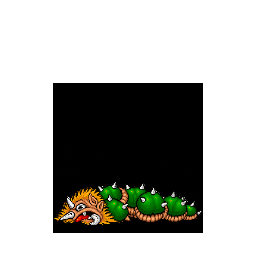
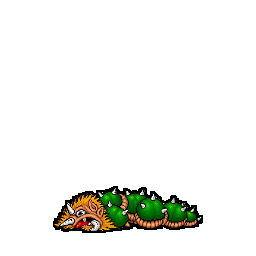
보스 리소스 완료 · 나머지 5종에 거리/묶음/예고 뼈대
리소스 — 여섯 종 전부 벌 8/8 · 경고등 5/5
- unit_guardian_ne_die2 마지막 1장 반영. 검은 판 제거 확인(18,688 -> 1,297px
  외곽선 수준). 면적비 0.32 · 머리 +25 같은 쪽 · 몸중심 y +29 가라앉음.
- 다만 발밑이 y=226 으로 6px 떠 있었다. 그림이 아니라 위치라 새로 그리게 하지
  않고 6px 내려 y=232 에 맞췄다.

뼈대 — Move 20개에 Range/Group 부여, 예고 1초 통일
  규칙을 취향이 아니라 도형 원점에서 뽑았다
    NEAR  원점이 보스이고 반경 <= 4m — 붙어야 닿는다
    FAR   보스에서 나를 향해 뻗는 선/띠 — 거리가 있어야 읽힌다
    Any   내 자리에 떨어지거나 방 전체를 덮는다 (VenomCloud · ExecutionLock ·
          BoosterDrop 은 코드가 Origin 을 playerAt 으로 잡는다)
    Group 같은 성격 둘이 겹치지 않게 한 시계로 번갈아

  가디언       마디돌진 FAR/1 · 마디사출 Any · 똬리 NEAR · 머리물기 FAR/1
  파이썬       전부 Any (벽으로 순간이동해 거리 조건이 의미 없다)
              벽돌파 <-> 세갈래돌파 묶음 1
  킹핀        미사일 FAR/1 · 처형조준 Any · 저공활강 FAR/1 · 부스터강하 Any
  로봇스네이크   구멍개방 Any/1 · 레이저 FAR · 천장파편 Any · 일제출현 Any/1
  슬러지       솟아오름 NEAR · 뱉기 FAR · 천장붙기 Any/1 · 천장확산 Any/1

  예고는 20개 다 1초. 예외 하나 — 킹핀 처형 조준 1.8초는 그대로 뒀다.
  그 길이 자체가 "몸을 갈아탈 시간을 준다" 는 뜻이라고 코드에 적혀 있다.

두뇌 실측 (30초 · 60fps · 페이즈 1)
  가디언 2m 마디사출만 / 8m 마디돌진<->마디사출
  킹핀   2m 처형조준만 / 8m 미사일<->처형조준
  로봇   2m 구멍개방만 / 8m 구멍개방+레이저
  슬러지 2m 솟아오름만 / 8m 뱉기만
  (P2·P3 패턴은 체력이 안 깎이는 시뮬이라 안 나온다)

diff --git a/Assets/Scripts/Editor/BossDefTable.cs b/Assets/Scripts/Editor/BossDefTable.cs
@@ -137,28 +137,32 @@ namespace Game.EditorTools
                                 Shape = "Line", Draw = "SegmentThrust", Dodge = "PERP",
                                 Degrees = 0f, Radius = 0f, Width = 1.4f, Length = 7.2f,
                                 InnerRadius = 0f, GapDegrees = 0f, Lanes = 0,
-                                SafeX = 0f, SafeY = 0f },
+                                SafeX = 0f, SafeY = 0f,
+                                Range = "FAR", RangeMeters = 4f, Group = 1 },
                         // 출처 — 마디 2개를 떼어 굴린다 · 각 1.4 m · 3초간 방 안을 튕겨 다닌다
                         new() { Phase = 1, NameKr = "마디 사출", NameEn = "SegmentLaunch",
-                                Cooldown = 12f, Telegraph = 1.4f, DamageMul = 0.73f,
+                                Cooldown = 12f, Telegraph = 1f, DamageMul = 0.73f,
                                 Shape = "Zone", Draw = "SegmentLaunch", Dodge = "SIDE",
                                 Degrees = 0f, Radius = 1.4f, Width = 0f, Length = 0f,
                                 InnerRadius = 0f, GapDegrees = 0f, Lanes = 2,
-                                SafeX = 0f, SafeY = 0f },
+                                SafeX = 0f, SafeY = 0f,
+                                Range = "", RangeMeters = 4f, Group = 0 },
                         // 출처 — 몸을 말아 반경 3.5 m 원형 벽을 만든다 · 3초 · 마디 사이 틈으로 들어가면 머리를 때린다
                         new() { Phase = 2, NameKr = "똬리", NameEn = "CoilWall",
-                                Cooldown = 10f, Telegraph = 1.3f, DamageMul = 0.91f,
+                                Cooldown = 10f, Telegraph = 1f, DamageMul = 0.91f,
                                 Shape = "Zone", Draw = "CoilWall", Dodge = "GAP",
                                 Degrees = 0f, Radius = 3.5f, Width = 0f, Length = 0f,
                                 InnerRadius = 2.6f, GapDegrees = 60f, Lanes = 0,
-                                SafeX = 0f, SafeY = 0f },
+                                SafeX = 0f, SafeY = 0f,
+                                Range = "NEAR", RangeMeters = 4f, Group = 0 },
                         // 출처 — 머리만 몸에서 길게 뻗어 문다 · 최대 6 m · 마디가 적을수록 빠르다
                         new() { Phase = 3, NameKr = "머리 물기", NameEn = "HeadBite",
-                                Cooldown = 9f, Telegraph = 0.9f, DamageMul = 1.14f,
+                                Cooldown = 9f, Telegraph = 1f, DamageMul = 1.14f,
                                 Shape = "Dash", Draw = "HeadBite", Dodge = "SIDE",
                                 Degrees = 0f, Radius = 0f, Width = 1.6f, Length = 6f,
                                 InnerRadius = 0f, GapDegrees = 0f, Lanes = 0,
-                                SafeX = 0f, SafeY = 0f },
+                                SafeX = 0f, SafeY = 0f,
+                                Range = "FAR", RangeMeters = 4f, Group = 1 },
                     } },
 
             // ── 파이썬 · 밤거리 — 벽에서 나온다 ─────────────────────────────
@@ -169,32 +173,36 @@ namespace Game.EditorTools
                     {
                         // 출처 — 벽 한 곳에 금이 간 뒤 머리가 튀어나와 직선 6 m 를 훑는다 · 폭 1.8 m
                         new() { Phase = 1, NameKr = "벽 돌파", NameEn = "WallBurst",
-                                Cooldown = 12f, Telegraph = 1.6f, DamageMul = 0.83f,
+                                Cooldown = 12f, Telegraph = 1f, DamageMul = 0.83f,
                                 Shape = "Line", Draw = "WallBurst", Dodge = "PERP",
                                 Degrees = 0f, Radius = 0f, Width = 1.8f, Length = 6f,
                                 InnerRadius = 0f, GapDegrees = 0f, Lanes = 0,
-                                SafeX = 0f, SafeY = 0f },
+                                SafeX = 0f, SafeY = 0f,
+                                Range = "", RangeMeters = 4f, Group = 1 },
                         // 출처 — 머리가 독을 뿜는다 · 반경 2.2 m 로 시작해 6초 동안 3.2 m 까지 퍼진다
                         new() { Phase = 1, NameKr = "독구름", NameEn = "VenomCloud",
-                                Cooldown = 9f, Telegraph = 1.1f, DamageMul = 0.59f,
+                                Cooldown = 9f, Telegraph = 1f, DamageMul = 0.59f,
                                 Shape = "Zone", Draw = "VenomCloud", Dodge = "ZONE",
                                 Degrees = 0f, Radius = 3.2f, Width = 0f, Length = 0f,
                                 InnerRadius = 0f, GapDegrees = 0f, Lanes = 0,
-                                SafeX = 0f, SafeY = 0f },
+                                SafeX = 0f, SafeY = 0f,
+                                Range = "", RangeMeters = 4f, Group = 0 },
                         // 출처 — 벽에서 벽으로 몸통이 방을 가로지른다 · 폭 2.4 m · 가로 또는 세로 한 줄 · 2.5초
                         new() { Phase = 2, NameKr = "몸통 가로지르기", NameEn = "BodyCross",
-                                Cooldown = 10f, Telegraph = 1.25f, DamageMul = 0.93f,
+                                Cooldown = 10f, Telegraph = 1f, DamageMul = 0.93f,
                                 Shape = "Lane", Draw = "BodyCross", Dodge = "SIDE",
                                 Degrees = 0f, Radius = 0f, Width = 2.4f, Length = 0f,
                                 InnerRadius = 0f, GapDegrees = 0f, Lanes = 4,
-                                SafeX = 0f, SafeY = 0f },
+                                SafeX = 0f, SafeY = 0f,
+                                Range = "", RangeMeters = 4f, Group = 0 },
                         // 출처 — 벽 세 곳에서 동시에 나온다 · 세 직선이 교차하고 안 겹치는 자리가 하나뿐
                         new() { Phase = 3, NameKr = "세 갈래 돌파", NameEn = "TripleBurst",
                                 Cooldown = 16f, Telegraph = 1f, DamageMul = 1.17f,
                                 Shape = "Line", Draw = "TripleBurst", Dodge = "GAP",
                                 Degrees = 0f, Radius = 0f, Width = 1.8f, Length = 6f,
                                 InnerRadius = 0f, GapDegrees = 0f, Lanes = 3,
-                                SafeX = 0f, SafeY = 0f },
+                                SafeX = 0f, SafeY = 0f,
+                                Range = "", RangeMeters = 4f, Group = 1 },
                     } },
 
             // ── 킹핀 · 옥상 — 하늘에 떠 있다 ──────────────────────────────
@@ -205,32 +213,36 @@ namespace Game.EditorTools
                     {
                         // 출처 — 미사일 5발을 부채꼴로 뿌린다 · 착탄 반경 1.2 m · 바닥에 착탄 원이 먼저 뜬다
                         new() { Phase = 1, NameKr = "미사일 일제", NameEn = "MissileSalvo",
-                                Cooldown = 9f, Telegraph = 1.35f, DamageMul = 0.88f,
+                                Cooldown = 9f, Telegraph = 1f, DamageMul = 0.88f,
                                 Shape = "Zone", Draw = "MissileSalvo", Dodge = "SIDE",
                                 Degrees = 0f, Radius = 1.2f, Width = 0f, Length = 0f,
                                 InnerRadius = 0f, GapDegrees = 0f, Lanes = 5,
-                                SafeX = 0f, SafeY = 0f },
+                                SafeX = 0f, SafeY = 0f,
+                                Range = "FAR", RangeMeters = 4f, Group = 1 },
                         // 출처 — 지금 입고 있는 몸에 조준 표식 · 3초 뒤 그 자리 반경 2.0 m 에 집중 사격
                         new() { Phase = 1, NameKr = "처형 조준", NameEn = "ExecutionLock",
                                 Cooldown = 13f, Telegraph = 1.8f, DamageMul = 1.24f,
                                 Shape = "Mark", Draw = "ExecutionLock", Dodge = "SWAP",
                                 Degrees = 0f, Radius = 2f, Width = 0f, Length = 0f,
                                 InnerRadius = 0f, GapDegrees = 0f, Lanes = 0,
-                                SafeX = 0f, SafeY = 0f },
+                                SafeX = 0f, SafeY = 0f,
+                                Range = "", RangeMeters = 4f, Group = 0 },
                         // 출처 — 탈것으로 방을 가로질러 민다 · 폭 3.0 m · 이때만 근접이 닿는다
                         new() { Phase = 2, NameKr = "저공 활강", NameEn = "StrafingRun",
                                 Cooldown = 8f, Telegraph = 1f, DamageMul = 0.72f,
                                 Shape = "Dash", Draw = "StrafingRun", Dodge = "SIDE",
                                 Degrees = 0f, Radius = 0f, Width = 3f, Length = 10f,
                                 InnerRadius = 0f, GapDegrees = 0f, Lanes = 0,
-                                SafeX = 0f, SafeY = 0f },
+                                SafeX = 0f, SafeY = 0f,
+                                Range = "FAR", RangeMeters = 4f, Group = 1 },
                         // 출처 — 화면 밖으로 상승했다가 그림자 예고 후 내려찍는다 · 반경 3.0 m · 착지 충격파
                         new() { Phase = 3, NameKr = "부스터 강하", NameEn = "BoosterDrop",
-                                Cooldown = 15f, Telegraph = 1.2f, DamageMul = 1.12f,
+                                Cooldown = 15f, Telegraph = 1f, DamageMul = 1.12f,
                                 Shape = "Zone", Draw = "BoosterDrop", Dodge = "ZONE",
                                 Degrees = 0f, Radius = 3f, Width = 0f, Length = 0f,
                                 InnerRadius = 0f, GapDegrees = 0f, Lanes = 0,
-                                SafeX = 0f, SafeY = 0f },
+                                SafeX = 0f, SafeY = 0f,
+                                Range = "", RangeMeters = 4f, Group = 0 },
                     } },
 
             // ── 로봇 스네이크 · 연구소 — 구멍에서 나온다 ────────────────────────
@@ -241,32 +253,36 @@ namespace Game.EditorTools
                     {
                         // 출처 — 구멍 2개의 덮개가 열린다 — 이것이 예고다. 1.15초 뒤 그 구멍에서 머리가 솟는다 · 반경 1.5 m
                         new() { Phase = 1, NameKr = "구멍 개방", NameEn = "HatchOpen",
-                                Cooldown = 8f, Telegraph = 1.15f, DamageMul = 0.85f,
+                                Cooldown = 8f, Telegraph = 1f, DamageMul = 0.85f,
                                 Shape = "Lane", Draw = "HatchOpen", Dodge = "ZONE",
                                 Degrees = 0f, Radius = 1.5f, Width = 0f, Length = 0f,
                                 InnerRadius = 0f, GapDegrees = 0f, Lanes = 2,
-                                SafeX = 0f, SafeY = 0f },
+                                SafeX = 0f, SafeY = 0f,
+                                Range = "", RangeMeters = 4f, Group = 1 },
                         // 출처 — 나온 머리가 초록 빔을 쏜다 · 폭 0.8 m · 방 끝까지 · 조준선이 먼저 그려진다
                         new() { Phase = 1, NameKr = "레이저", NameEn = "RailLaser",
-                                Cooldown = 11f, Telegraph = 1.35f, DamageMul = 0.73f,
+                                Cooldown = 11f, Telegraph = 1f, DamageMul = 0.73f,
                                 Shape = "Line", Draw = "RailLaser", Dodge = "PERP",
                                 Degrees = 0f, Radius = 0f, Width = 0.8f, Length = 13f,
                                 InnerRadius = 0f, GapDegrees = 0f, Lanes = 0,
-                                SafeX = 0f, SafeY = 0f },
+                                SafeX = 0f, SafeY = 0f,
+                                Range = "FAR", RangeMeters = 4f, Group = 0 },
                         // 출처 — 천장에서 파편이 떨어진다 · 그림자 5개 · 각 반경 1.2 m · 1.5초 뒤 낙하
                         new() { Phase = 2, NameKr = "천장 파편", NameEn = "DebrisFall",
-                                Cooldown = 13f, Telegraph = 1.5f, DamageMul = 0.94f,
+                                Cooldown = 13f, Telegraph = 1f, DamageMul = 0.94f,
                                 Shape = "Zone", Draw = "DebrisFall", Dodge = "ZONE",
                                 Degrees = 0f, Radius = 1.2f, Width = 0f, Length = 0f,
                                 InnerRadius = 0f, GapDegrees = 0f, Lanes = 5,
-                                SafeX = 0f, SafeY = 0f },
+                                SafeX = 0f, SafeY = 0f,
+                                Range = "", RangeMeters = 4f, Group = 0 },
                         // 출처 — 구멍 6개가 전부 열리고 다섯이 솟는다. 안 나오는 구멍이 하나뿐이고 그 위가 안전지대
                         new() { Phase = 3, NameKr = "일제 출현", NameEn = "FullEmergence",
-                                Cooldown = 18f, Telegraph = 1.2f, DamageMul = 1.15f,
+                                Cooldown = 18f, Telegraph = 1f, DamageMul = 1.15f,
                                 Shape = "Zone", Draw = "FullEmergence", Dodge = "ZONE",
                                 Degrees = 0f, Radius = 1.5f, Width = 0f, Length = 0f,
                                 InnerRadius = 0f, GapDegrees = 0f, Lanes = 6,
-                                SafeX = 0f, SafeY = 0f },
+                                SafeX = 0f, SafeY = 0f,
+                                Range = "", RangeMeters = 4f, Group = 1 },
                     } },
 
             // ── 슬러지 · 정유소 — 위에서 떨어진다 ────────────────────────────
@@ -277,32 +293,36 @@ namespace Game.EditorTools
                     {
                         // 출처 — 바닥으로 가라앉았다가 다른 자리에서 솟는다 · 솟는 자리 반경 2.0 m · 바닥이 부풀어 예고
                         new() { Phase = 1, NameKr = "솟아오름", NameEn = "Emerge",
-                                Cooldown = 10f, Telegraph = 1.4f, DamageMul = 0.78f,
+                                Cooldown = 10f, Telegraph = 1f, DamageMul = 0.78f,
                                 Shape = "Zone", Draw = "Emerge", Dodge = "ZONE",
                                 Degrees = 0f, Radius = 2f, Width = 0f, Length = 0f,
                                 InnerRadius = 0f, GapDegrees = 0f, Lanes = 0,
-                                SafeX = 0f, SafeY = 0f },
+                                SafeX = 0f, SafeY = 0f,
+                                Range = "NEAR", RangeMeters = 4f, Group = 0 },
                         // 출처 — 끈적한 덩어리를 뱉는다 · 착탄 반경 1.5 m · 웅덩이 4초 · 밟으면 이동 속도 절반
                         new() { Phase = 1, NameKr = "뱉기", NameEn = "Spit",
-                                Cooldown = 8f, Telegraph = 1.05f, DamageMul = 0.68f,
+                                Cooldown = 8f, Telegraph = 1f, DamageMul = 0.68f,
                                 Shape = "Line", Draw = "Spit", Dodge = "PERP",
                                 Degrees = 0f, Radius = 1.5f, Width = 1.5f, Length = 8f,
                                 InnerRadius = 0f, GapDegrees = 0f, Lanes = 0,
-                                SafeX = 0f, SafeY = 0f },
+                                SafeX = 0f, SafeY = 0f,
+                                Range = "FAR", RangeMeters = 4f, Group = 0 },
                         // 출처 — 점프해 사라진다. 그림자 3개가 방을 돌아다니다 멈추고 1초 뒤 방울이 떨어진다 · 각 반경 1.8 m
                         new() { Phase = 2, NameKr = "천장 붙기", NameEn = "CeilingCling",
-                                Cooldown = 14f, Telegraph = 1.7f, DamageMul = 0.89f,
+                                Cooldown = 14f, Telegraph = 1f, DamageMul = 0.89f,
                                 Shape = "Zone", Draw = "CeilingCling", Dodge = "ZONE",
                                 Degrees = 0f, Radius = 1.8f, Width = 0f, Length = 0f,
                                 InnerRadius = 0f, GapDegrees = 0f, Lanes = 3,
-                                SafeX = 0f, SafeY = 0f },
+                                SafeX = 0f, SafeY = 0f,
+                                Range = "", RangeMeters = 4f, Group = 1 },
                         // 출처 — 천장 전체로 퍼진다 · 방 전역에 방울 비 · 깨끗한 자리 하나만 남고 2초마다 옮겨 간다 · 8초
                         new() { Phase = 3, NameKr = "천장 확산", NameEn = "CeilingSpread",
-                                Cooldown = 20f, Telegraph = 1.25f, DamageMul = 1.14f,
+                                Cooldown = 20f, Telegraph = 1f, DamageMul = 1.14f,
                                 Shape = "Zone", Draw = "CeilingSpread", Dodge = "ZONE",
                                 Degrees = 0f, Radius = 1.6f, Width = 0f, Length = 0f,
                                 InnerRadius = 0f, GapDegrees = 0f, Lanes = 0,
-                                SafeX = 0f, SafeY = 0f },
+                                SafeX = 0f, SafeY = 0f,
+                                Range = "", RangeMeters = 4f, Group = 1 },
                     } },
 
         };
